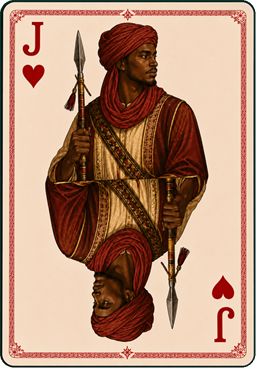
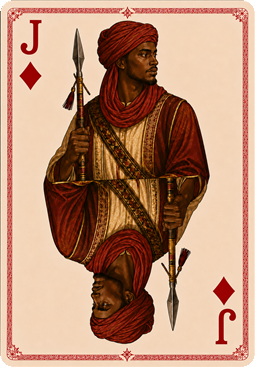
fix(cards): replace sandline jack of diamonds art

Changed region(s): [[0.0, 0.0, 1.0, 1.0]]

diff --git a/test/ui/core/cards/sandline_lounge_theme_test.dart b/test/ui/core/cards/sandline_lounge_theme_test.dart
@@ -1,3 +1,5 @@
+import 'dart:io';
+
 import 'package:flutter/material.dart';
 import 'package:flutter_test/flutter_test.dart';
 import 'package:hareeg_table/domain/classic_hareeg/models/playing_card.dart';
@@ -28,6 +30,20 @@ void main() {
       'assets/cards/sandline_lounge/jack_diamonds.webp',
     );
   });
+
+  test(
+    'Sandline Lounge Jack of Diamonds artwork is not the Jack of Hearts',
+    () {
+      final jackDiamonds = File(
+        'assets/cards/sandline_lounge/jack_diamonds.webp',
+      ).readAsBytesSync();
+      final jackHearts = File(
+        'assets/cards/sandline_lounge/jack_hearts.webp',
+      ).readAsBytesSync();
+
+      expect(jackDiamonds, isNot(jackHearts));
+    },
+  );
 
   testWidgets(
     'Sandline Lounge renders face, back, and represented joker assets',
